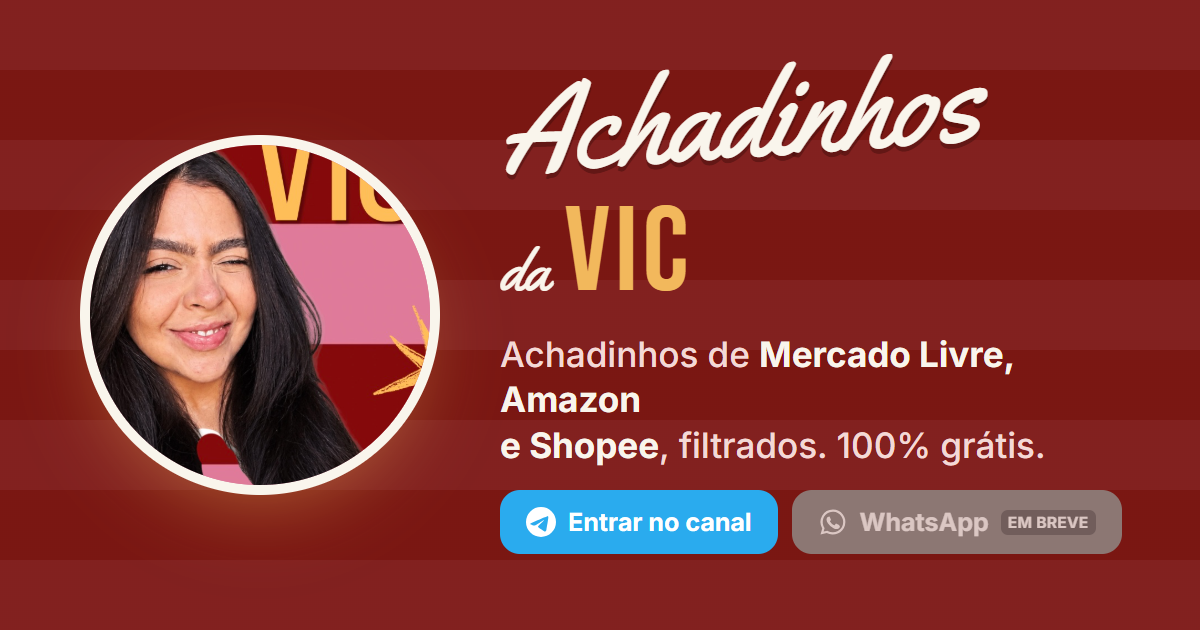
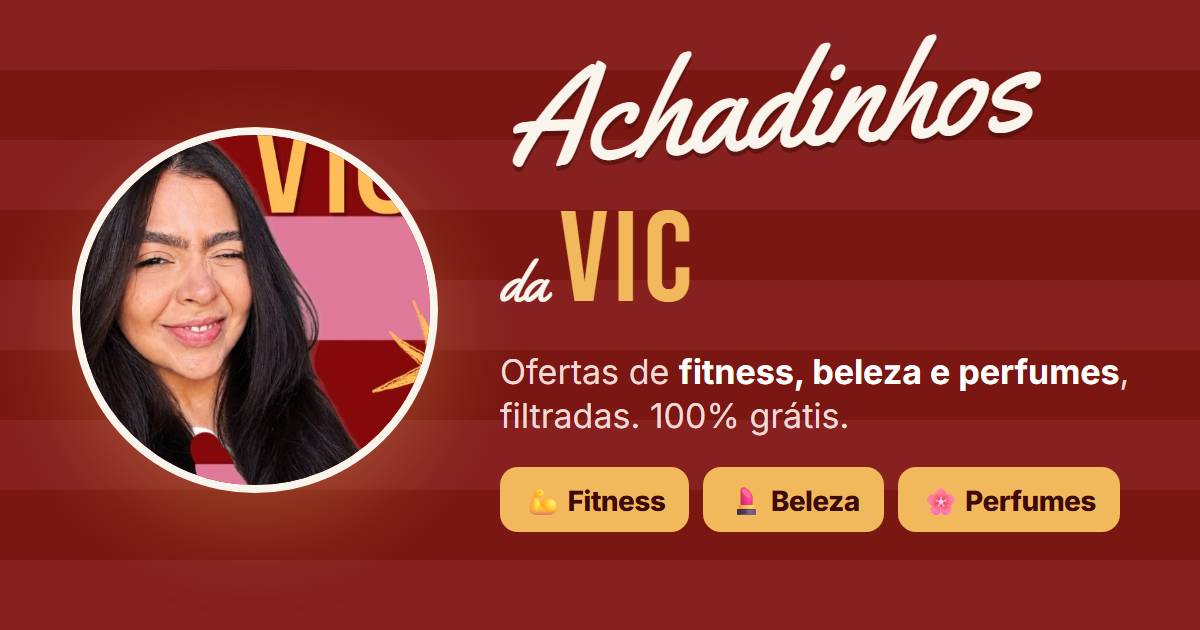
Landing page: show only the Fitness, Beleza and Perfumes groups

diff --git a/Vic Site/index.html b/Vic Site/index.html
@@ -5,12 +5,12 @@
 <meta charset="utf-8">
 <meta name="viewport" content="width=device-width, initial-scale=1, viewport-fit=cover">
 <title>Achadinhos da Vic</title>
-<meta name="description" content="Grupos gratuitos de ofertas: os melhores achadinhos de Mercado Livre, Amazon e Shopee, filtrados. Escolha o seu e entre.">
+<meta name="description" content="Grupos gratuitos de ofertas de fitness, beleza e perfumes: achadinhos do Mercado Livre, da Amazon e de outras lojas, filtrados. Escolha o seu e entre.">
 <meta name="theme-color" content="#7a1712">
 <link rel="icon" href="favicon.svg" type="image/svg+xml">
 <meta property="og:type" content="website">
 <meta property="og:title" content="Achadinhos da Vic · Escolha o seu grupo de ofertas">
-<meta property="og:description" content="Achadinhos de Mercado Livre, Amazon e Shopee, filtrados. 100% grátis.">
+<meta property="og:description" content="Fitness, beleza e perfumes com desconto de verdade, filtrados. 100% grátis.">
 <meta property="og:url" content="https://achadinhos-vic.pages.dev/">
 <meta property="og:image" content="https://achadinhos-vic.pages.dev/og.png">
 <meta property="og:image:width" content="1200">
@@ -250,8 +250,8 @@
   <main>
     <h1 class="sr-only">Achadinhos da Vic</h1>
     <div class="poster"><img src="Victoria%20Logo.PNG" alt="Achadinhos da Vic" width="1210" height="1748"></div>
-    <p class="sub">Os melhores achadinhos de <b>Mercado Livre, Amazon e Shopee</b>, filtrados e direto no seu
-      <span id="app">Telegram</span>.</p>
+    <p class="sub">Achadinhos de <b>fitness, beleza e perfumes</b> no Mercado Livre, na Amazon e em outras lojas,
+      filtrados e direto no seu <span id="app">Telegram</span>.</p>
     <p class="trust">100% grátis<span>·</span>Sem spam<span>·</span>Saia quando quiser</p>
 
     <h2>Escolha o seu grupo de ofertas</h2>
@@ -268,20 +268,19 @@
 
     <ul class="grupos" id="grupos"></ul>
 
-    <footer>Os links dos grupos são de afiliado: o grupo recebe uma comissão das lojas e o preço para você é o mesmo. Como
-      associado da Amazon, recebemos por compras qualificadas.</footer>
+    <footer>Os links dos grupos são de afiliado (Mercado Livre, Amazon e lojas parceiras da Awin): o grupo recebe uma
+      comissão das lojas e o preço para você é o mesmo. Como associado da Amazon, recebemos por compras qualificadas.</footer>
   </main>
 
 <script>
   // Grupos da página. Para ligar um grupo, cole o link de convite em "whatsapp" (https://chat.whatsapp.com/...)
   // ou "telegram" (https://t.me/...). Sem link, o grupo aparece como "Em breve" naquele aplicativo.
+  // São os três grupos de nicho do bot (config/grupos.json). O canal "Geral" existe, mas não é divulgado aqui.
+  // No Telegram, o bot manda o convite no privado do dono quando o canal é ligado (README do bot, seção 3.12).
   const GRUPOS = [
-    { nome: 'Todas as ofertas', desc: 'De tudo um pouco, num grupo só.', icone: '🛍', destaque: true, whatsapp: '', telegram: 'https://t.me/+snWM1HJKcP01NjUx' },
-    { nome: 'Beleza', desc: 'Perfume, maquiagem e cuidados pessoais.', icone: '💄', whatsapp: '', telegram: '' },
-    { nome: 'Fitness', desc: 'Suplemento, equipamento e roupa esportiva.', icone: '💪', whatsapp: '', telegram: '' },
-    { nome: 'Casa', desc: 'Eletrodoméstico, decoração e utilidades.', icone: '🏠', whatsapp: '', telegram: '' },
-    { nome: 'Moda', desc: 'Roupa, calçado e acessório.', icone: '👗', whatsapp: '', telegram: '' },
-    { nome: 'Tech', desc: 'Celular, notebook, TV e áudio.', icone: '📱', whatsapp: '', telegram: '' },
+    { nome: 'Fitness', desc: 'Suplemento, roupa de treino, tênis e equipamento.', icone: '💪', whatsapp: '', telegram: '' },
+    { nome: 'Beleza', desc: 'Maquiagem, skincare e cabelo.', icone: '💄', whatsapp: '', telegram: '' },
+    { nome: 'Perfumes', desc: 'Importados, árabes e nacionais.', icone: '🌸', whatsapp: '', telegram: '' },
   ];
 
   const LINK = { whatsapp: /^https:\/\/chat\.whatsapp\.com\/\S+$/, telegram: /^https:\/\/t\.me\/\S+$/ };
